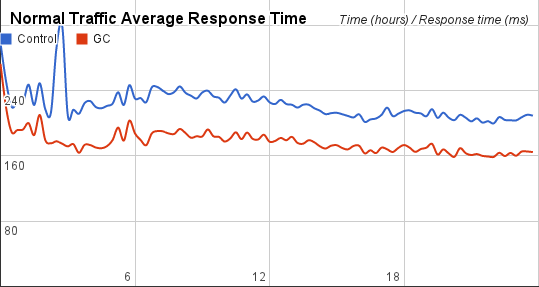
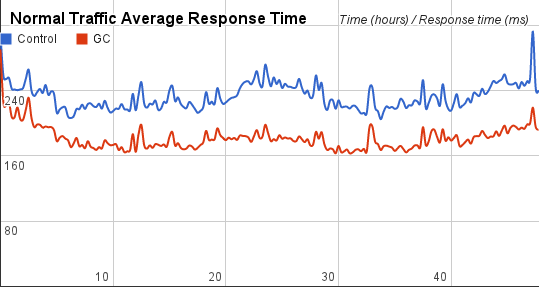
Update graphs and stats with new data
Still need to rewrite the prose though.

diff --git a/thesis.tex b/thesis.tex
@@ -93,7 +93,6 @@ Fine-grained caching is now very simple because the developer doesn't need to ex
 This is particularly useful for caching arbitrary fragments of HTML without increasing the complexity of cache invalidation.
 
 We describe the process of implementing a caching strategy based on generational caching concepts in \textsf{iFixit}'s website.
-% TODO: Update this value with fresh results.
 Our implementation yielded a 20\% improvement in page response time by caching fragments of HTML and results of database queries.
 \end{abstract}
 
@@ -965,8 +964,8 @@ However, \textsf{Memcached} time has remained approximately the same.
    Teardown Control & 236.33 & 78.26 & 67.56 & 59.95 \\ \hline
    Teardown GC & 196.67 & 79.75 & 48.46 & 23.52 \\ \hline
    \hline
-   Normal Control & 225.23 & 73.59 & 64.37 & 56.92 \\ \hline
-   Normal GC & 178.90 & 70.70 & 46.22 & 22.89 \\
+   Normal Control & 235.17 & 76.11 & 66.17 & 59.46 \\ \hline
+   Normal GC & 183.96 & 71.87 & 47.85 & 22.30 \\
    \hline
 \end{tabular}
 \end{center}
@@ -983,11 +982,11 @@ However, \textsf{Memcached} gets and cache hit rate go down.
 \begin{tabular}{| l | l | l | l | l |}
    \hline
    Run & Memcached gets & Memcached misses & Cache hit rate & Queries \\ \hline
-   Teardown Control & 97.93 & 5.33 & 0.94 & 44.51 \\ \hline
-   Teardown GC & 37.52 & 4.99 & 0.86 & 32.35 \\ \hline
+   Teardown Control & 97.93 & 5.33 & 0.9456 & 44.51 \\ \hline
+   Teardown GC & 37.52 & 4.99 & 0.8668 & 32.35 \\ \hline
    \hline
-   Normal Control & 88.23 & 6.37 & 0.92 & 46.48 \\ \hline
-   Normal GC & 39.78 & 5.98 & 0.84 & 33.02 \\
+   Normal Control & 92.05 & 6.05 & 0.9342 & 45.95 \\ \hline
+   Normal GC & 38.33 & 5.43 & 0.8583 & 32.64 \\
    \hline
 \end{tabular}
 \end{center}
@@ -1095,8 +1094,7 @@ All of the cache entries that depend on that data are effectively invalidated be
 This results in the ability to perform fine-grained caching without forcing the developer to invalidate cache entries when data changes.
 
 We implemented generational caching for \textsf{iFixit}'s guides to find that this approach works remarkably well.
-% TODO: Update this value with fresh results.
-In particular, HTML generation time, number of database queries, and average response time decreased by 60\%, 27\%, and 18\%, respectively.
+In particular, HTML generation time, number of database queries, and average response time decreased by 60\%, 27\%, and 20\%, respectively.
 Just as important, cache invalidation was transparent to the developer because the ORM handled the retrieval of data and generation of cache keys.
 We are eager to incorporate our generational caching solution into other areas of the site to simplify the implementation of caching and improve performance.
 
